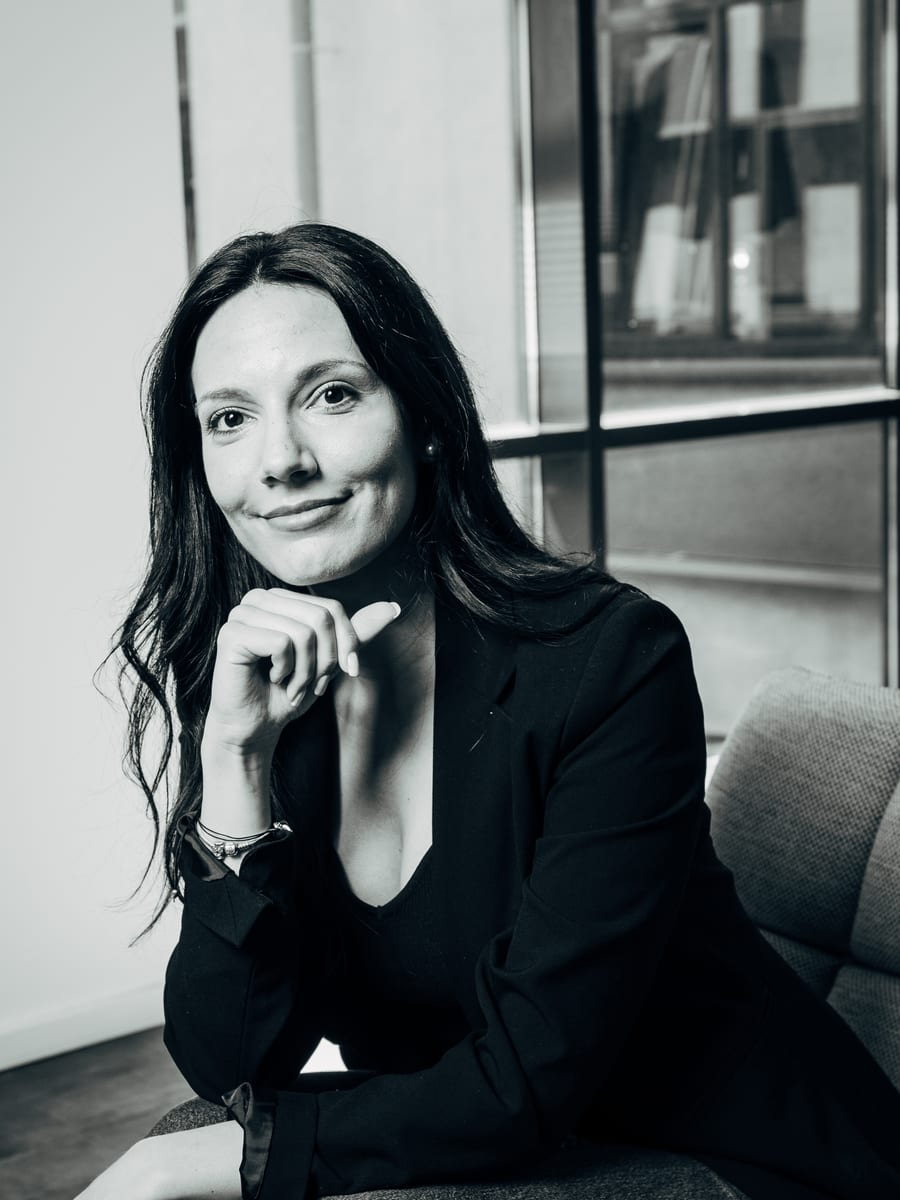
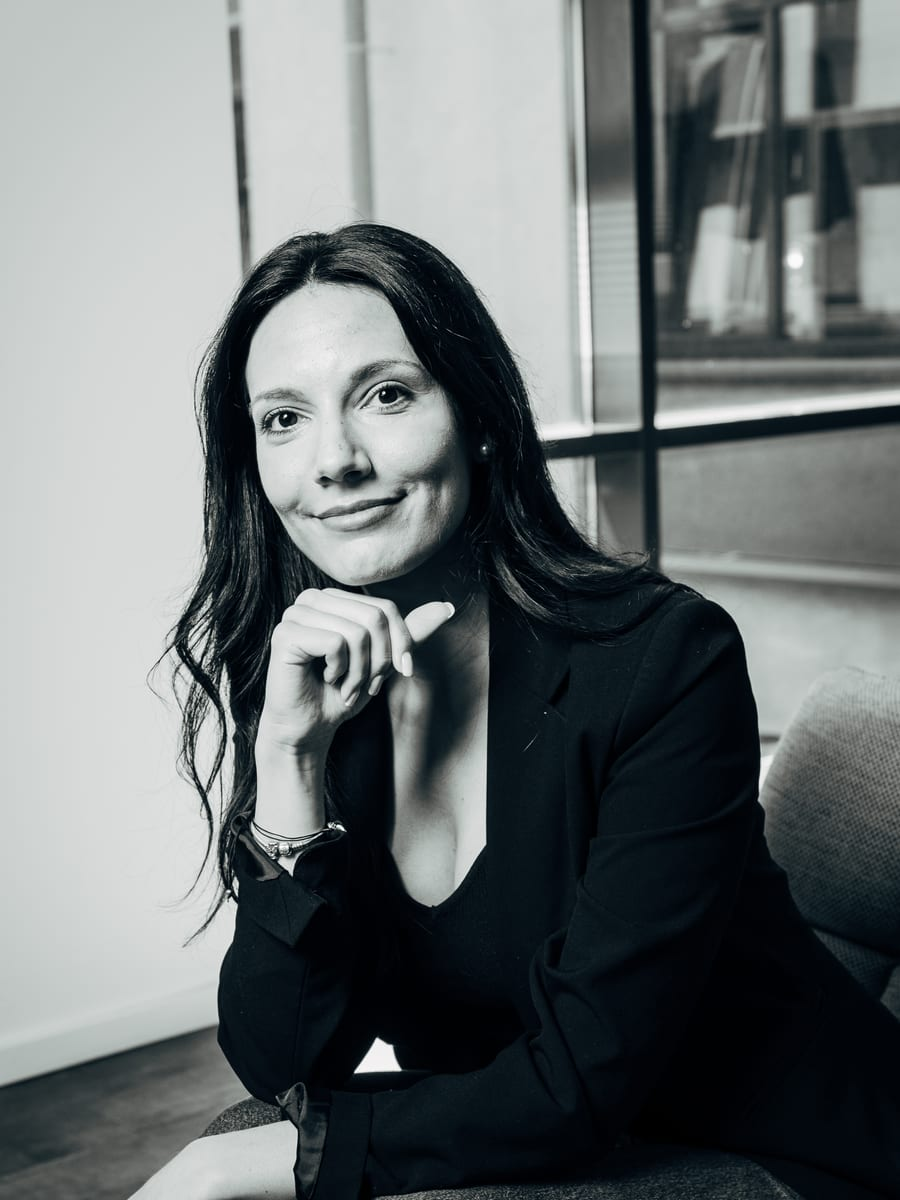
Team-Feinschliff (Groesse/Mitte), Marcus-Position & Magenta-Leiste-Baseline
- Team-Portraits nachjustiert: Simone/Janine kleiner+mittig, Michael Gaul
  deutlich kleiner+mittig, Natali mittig, Elena groesser+mittig, Sebastian
  mittig, Aylin leicht nach rechts (~52%)
- Marcus Wolter bewusst tiefer (~17%) + weiter links (~37%) in Leader-Kachel
- Editorial-Magenta-Leiste: "Companies weltweit" auf Grundlinie von "170+"
  (items-baseline), Kasten flacher (~189 statt ~258 px)
- leadership.ts Crop-Doku + CHANGELOG aktualisiert

diff --git a/src/data/leadership.ts b/src/data/leadership.ts
@@ -20,23 +20,26 @@ export interface Leader {
   img: string;
 }
 
-// ── SCHEITEL-ANGLEICHUNG JE REIHE (Wolfram 21.07., 4. Runde) ─────────────────
-// Neue Regel: nicht mehr Kinn-, sondern SCHEITELhöhe fluchtet je Reihe (frisch aus den
-// Originalen geschnitten, Größe wo genannt angepasst). Referenzen + neue extract()-Werte:
+// ── SCHEITEL-ANGLEICHUNG + ZENTRIERUNG JE REIHE (Wolfram 21.07., 5. Runde) ────
+// Regel: SCHEITELhöhe fluchtet je Reihe, Gesicht horizontal MITTIG (frisch aus den
+// Originalen). Werte der 5. Runde (Feinschliff nach Wolframs Sicht: mehrere waren zu
+// groß / nicht mittig). Referenzen + aktuelle extract()-Werte:
 //   LEADER-Reihe (Ref = Marcus, Scheitel on-screen ~12 %):
-//     • Michael Laegel: war zu tief + zu klein → extract(1378,1629,2005,2673) aus
-//       „Michael Laegel.jpg" (Scheitel 12 %, Kinn 48 %, mittig — wie Marcus).
-//     • Knut: Scheitel via object-position 8 %→5 % (Founders FOCUS) auf 12 % geholt.
-//       „ein bisschen kleiner" NICHT möglich — Original nur 1362×2048, bereits volle Breite.
-//   MITTLERE Reihe (Ref = Heike, Scheitel ~13 %):
-//     • Simone: extract(268,330,3328,4437) „Simone Lenzen.jpg" (höher + kleiner)
-//     • Natali:  extract(477,793,2588,3450) „Natali.jpg" (kleiner, links, höher)
-//     • Janine:  extract(978,479,2760,3680) „Janine.jpg" (mittig, höher)
-//     • Michael Gaul: extract(878,250,2669,3559) „Michael Gaul.jpg" (runter + kleiner)
-//   UNTERE Reihe (Ref = Matthäus, Scheitel ~12 %):
-//     • Elena:     extract(407,876,3313,4417) „Elena.jpg" (höher)
-//     • Sebastian: extract(864,526,2693,3590) „Sebastian lege.jpg" (runter)
-//     • Aylin:     extract(891,863,2917,3889) „Aylin.jpg" (höher + nach links, Gesicht ~55 %)
+//     • Marcus: extract(1052,1000,2091,2788) „Marcus.JPG" — bewusst tiefer (~17 %) und
+//       weiter links (~37 %) gesetzt (Wolfram-Wunsch), nicht auf die 12 %-Linie.
+//     • Michael Laegel: extract(1378,1629,2005,2673) „Michael Laegel.jpg" (Scheitel 12 %,
+//       Kinn 48 %, mittig).
+//     • Knut: Scheitel via object-position 8 %→5 % (Founders FOCUS) auf 12 %. „kleiner"
+//       NICHT möglich — Original nur 1362×2048, bereits volle Breite.
+//   MITTLERE Reihe (Ref = Heike, Scheitel ~13 %, Gesicht mittig):
+//     • Simone: extract(127,213,3745,4994) „Simone Lenzen.jpg" (kleiner, mittig)
+//     • Natali:  extract(323,794,2586,3448) „Natali.jpg" (mittig)
+//     • Janine:  extract(597,331,3190,4253) „Janine.jpg" (kleiner, mittig)
+//     • Michael Gaul: extract(772,158,3202,4269) „Michael Gaul.jpg" (deutlich kleiner, mittig)
+//   UNTERE Reihe (Ref = Matthäus, Scheitel ~12 %, Gesicht mittig):
+//     • Elena:     extract(696,1070,2933,3911) „Elena.jpg" (größer, mittig)
+//     • Sebastian: extract(703,454,2692,3589) „Sebastian lege.jpg" (mittig)
+//     • Aylin:     extract(716,863,2917,3889) „Aylin.jpg" (Gesicht ~52 %, leicht nach rechts)
 export const LEADERSHIP: Leader[] = [
   // ── Leader-Reihe (Index 0–2) ──────────────────────────────────────────────
   // Echtes Portrait (Wolfram 21.07.) — löst den Platzhalter lead-1.jpg ab (den Janine

diff --git a/src/components/cinematic/algarve/Editorial.tsx b/src/components/cinematic/algarve/Editorial.tsx
@@ -246,11 +246,14 @@ export function AlgarveEditorial() {
         >
           <div
             data-ed-story
-            className="flex flex-col gap-8 md:flex-row md:items-center md:justify-between"
-            style={{ background: MAGENTA, color: PAPER, padding: "clamp(2.2rem, 4vw, 4.2rem) clamp(1.8rem, 3vw, 3.4rem)" }}
+            className="flex flex-col gap-6 md:flex-row md:items-center md:justify-between"
+            style={{ background: MAGENTA, color: PAPER, padding: "clamp(1.4rem, 2.6vw, 2.8rem) clamp(1.8rem, 3vw, 3.4rem)" }}
           >
-            {/* LINKS — 170+ Companies weltweit (aus der Coopetition-Grafik / alte Seite) */}
-            <div className="flex flex-col">
+            {/* LINKS — 170+ Companies weltweit (aus der Coopetition-Grafik / alte Seite).
+                „Companies weltweit" sitzt auf der GRUNDLINIE von „170+" (Wolfram 21.07.):
+                nebeneinander statt gestapelt, per items-baseline auf die Ziffern-Unterlänge.
+                Der Kasten ist zudem flacher (kleineres vertikales Padding). */}
+            <div className="flex flex-wrap items-baseline gap-x-4 gap-y-1">
               {/* „+" als Einheitszeichen analog zu den Facts-Kacheln (Wolfram 21.07.):
                   kleiner (0.54em wie UNIT dort), eng an der Ziffer (marginLeft 0.04em) und
                   um den Sharp-Grotesk-Glyph-Offset abgesenkt (top 0.14em), damit es wie „+"
@@ -259,7 +262,7 @@ export function AlgarveEditorial() {
                 170
                 <span style={{ fontSize: "0.54em", marginLeft: "0.04em", position: "relative", top: "0.14em" }}>+</span>
               </span>
-              <span style={{ fontFamily: SHARP, fontWeight: 500, fontSize: "clamp(1.15rem, 1.7vw, 1.8rem)", marginTop: "0.5rem", letterSpacing: "0.01em" }}>
+              <span style={{ fontFamily: SHARP, fontWeight: 500, fontSize: "clamp(1.15rem, 1.7vw, 1.8rem)", letterSpacing: "0.01em" }}>
                 Companies weltweit
               </span>
             </div>

diff --git a/CHANGELOG.md b/CHANGELOG.md
@@ -5,6 +5,18 @@ Alle nennenswerten Änderungen an diesem Projekt. Format angelehnt an
 
 ## [redesign-v2] — Branch (Preview) — 2026-07-16
 
+### Team-Feinschliff (Größe/Mitte), Marcus-Position & Magenta-Leiste-Baseline (21.07., 5. Runde)
+- **Team-Portraits nachjustiert** (mehrere waren zu groß bzw. nicht mittig): **Simone**,
+  **Janine** kleiner + mittig; **Michael Gaul** deutlich kleiner + mittig; **Natali**
+  mittig; **Elena** größer + mittig; **Sebastian** mittig; **Aylin** leicht nach rechts
+  (~52 %). Methode diesmal zuverlässiger: Quell-Landmarken aus den dokumentierten Crops +
+  gemessenen Ist-Positionen abgeleitet (statt neuer Original-Messungen).
+- **Marcus Wolter** bewusst etwas tiefer (~17 %) und weiter links (~37 %) in seiner
+  Leader-Kachel gesetzt (Wolfram-Wunsch) — nicht auf der 12 %-Scheitellinie der anderen.
+- **Editorial-Magenta-Leiste:** „Companies weltweit" sitzt jetzt auf der **Grundlinie von
+  „170+"** (nebeneinander, `items-baseline`) statt gestapelt; der Kasten ist **flacher**
+  (vertikales Padding reduziert, ~189 statt ~258 px).
+
 ### About-Archivierung, Editorial-Magenta-Leiste, Scheitel-Angleichung Team & Career-Full-Bleed (21.07., 4. Runde)
 - **About-Seite komplett archiviert.** Route `/about` liefert jetzt 404: `about/page.tsx`
   → `about/page.tsx.archived` umbenannt (Code bleibt als Speicher, per Zurückbenennen
